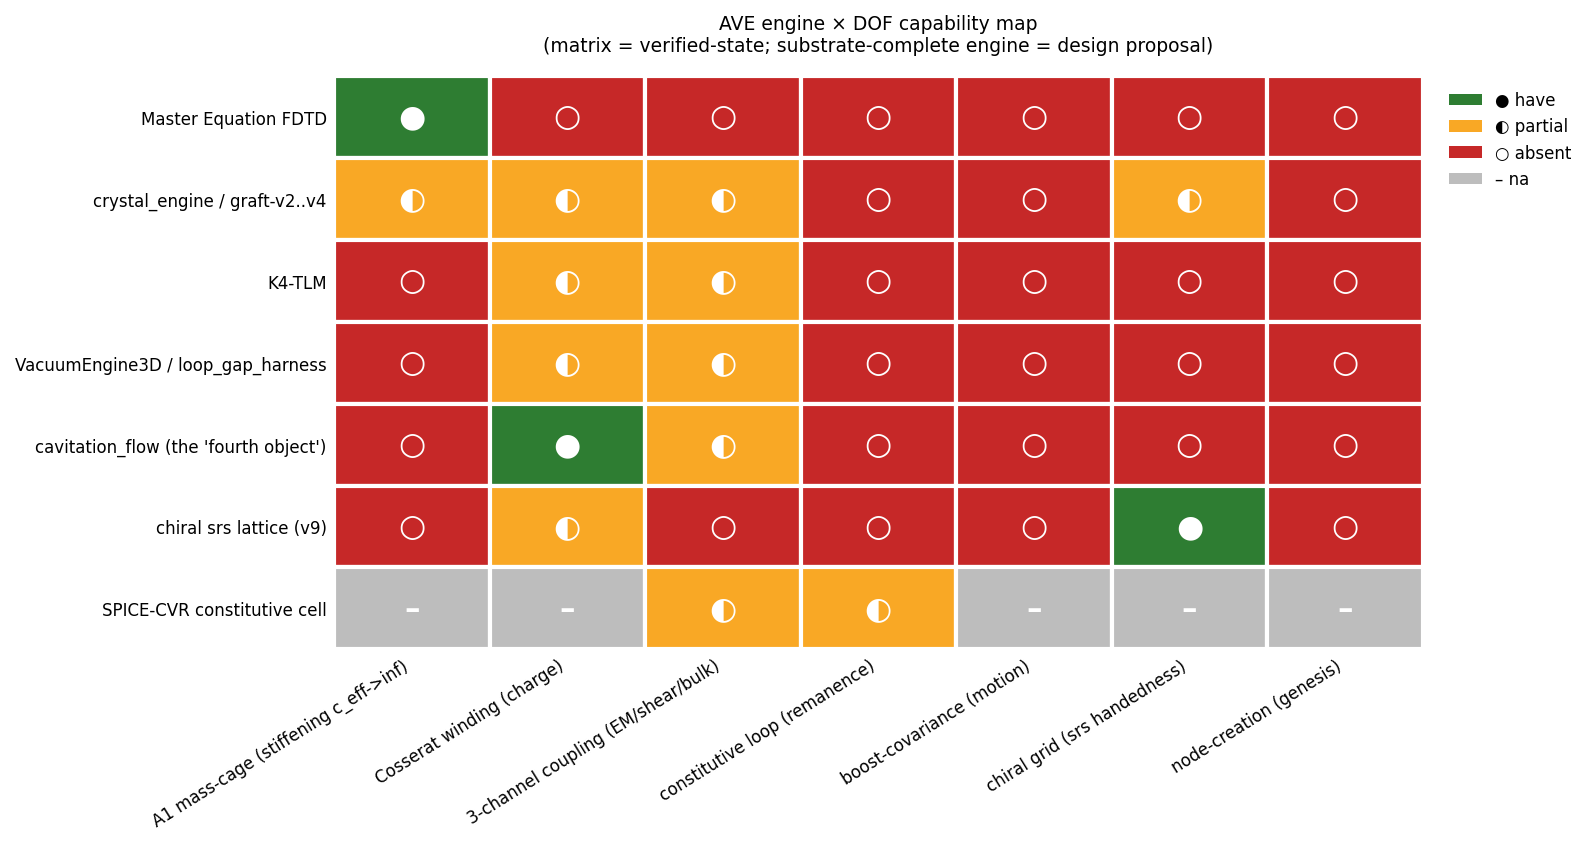
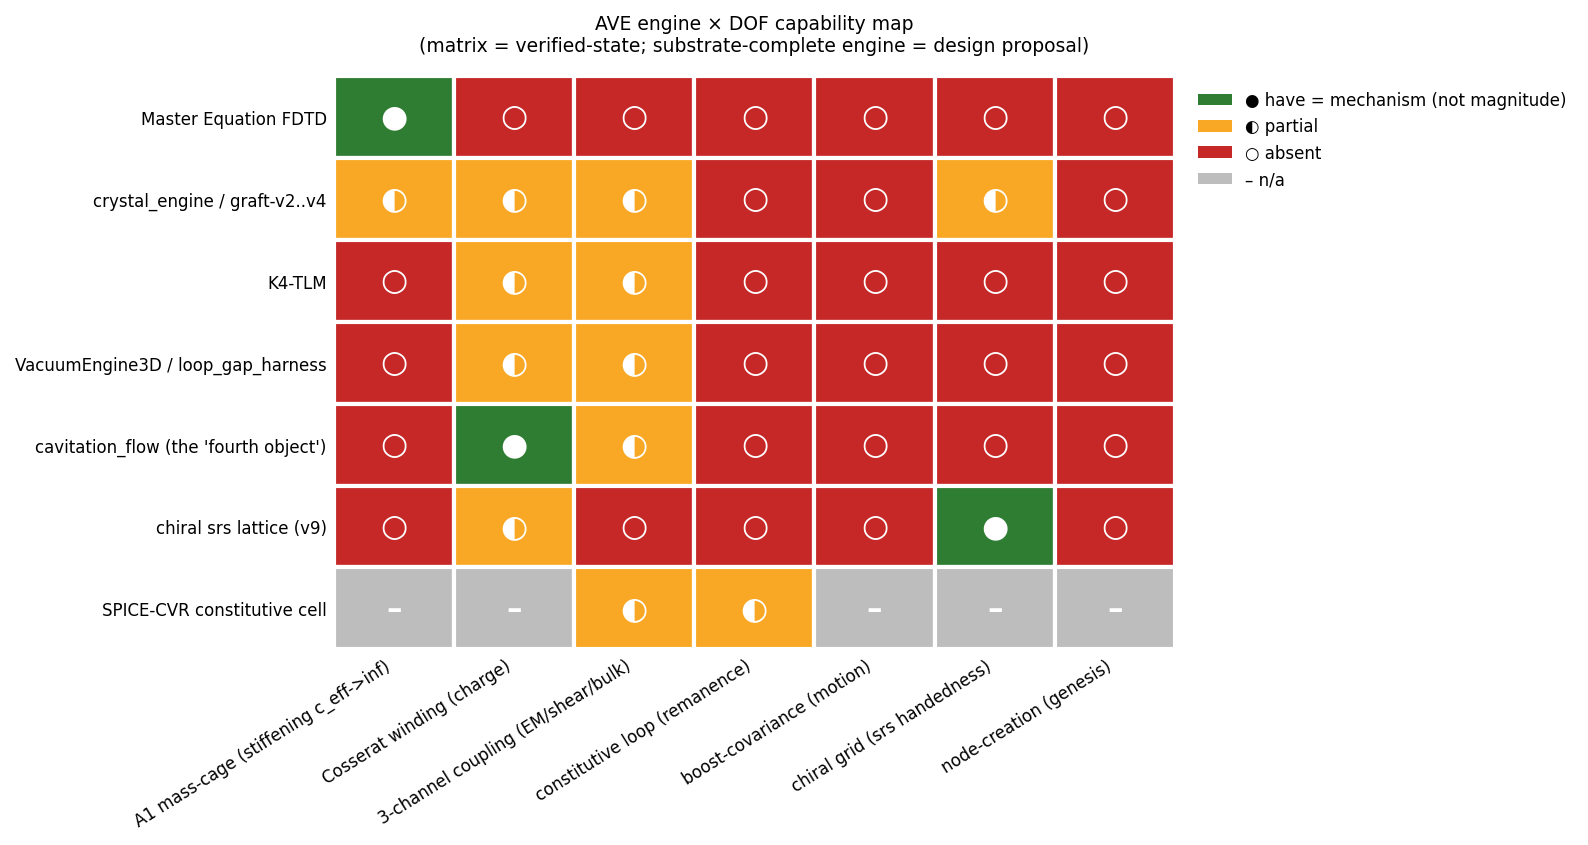
Fix harness no-A1-field anchor (mis-lined :503→:499, ×5) + auditor polish
Cell-check FIX-FIRST (auditor #216): the harness "no independent A1 field" anchor
was mis-lined — :503/:527 are scalar-grade-branch line numbers; on main the
v_scalar_from_v_inc call sites are :499/:523 (def cross_sector_coupling.py:226).
Re-cite the DEF (stable against the scalar-grade merge) across all 5 sites: leaf
§2, YAML harness.a1_cage + harness.winding, and the index.md + loop-gap-epic
addenda. The claim is UNCHANGED and TRUE (harness scalar is a projection); only
the cited line was wrong (a verify-before-cite slip — grepped the wrong worktree).

Polish (auditor, non-blocking): full path on the graft-v2 cite; 4 chiral_grid:absent
cells re-anchored to honest structural-inference (the harness one no longer points
at a different engine's text); §6 exponent-defect line corrected (:165-169). Legend
note added (have = DOF-mechanism validated, NOT magnitude — closes the green-cage
misread). Figure re-rendered. make verify clean (0 gating errors).

diff --git a/manuscript/ave-kb/common/figures/engine_capability_map.py b/manuscript/ave-kb/common/figures/engine_capability_map.py
@@ -76,7 +76,13 @@ def render(data: dict, out: str) -> None:
         "(matrix = verified-state; substrate-complete engine = design proposal)",
         fontsize=9, pad=12,
     )
-    legend = [Patch(facecolor=STATUS_COLOR[k], label=f"{STATUS_GLYPH[k]} {k}")
+    _label = {
+        "have": "have = mechanism (not magnitude)",
+        "partial": "partial",
+        "absent": "absent",
+        "na": "n/a",
+    }
+    legend = [Patch(facecolor=STATUS_COLOR[k], label=f"{STATUS_GLYPH[k]} {_label[k]}")
               for k in ("have", "partial", "absent", "na")]
     ax.legend(handles=legend, loc="upper left", bbox_to_anchor=(1.01, 1.0), fontsize=8, frameon=False)
 

diff --git a/manuscript/ave-kb/common/engine-capability-map.md b/manuscript/ave-kb/common/engine-capability-map.md
@@ -42,7 +42,7 @@ A complete, stable, moving, charged electron requires all seven at once. No sing
 - **crystal_engine / graft-v2..v4** (`src/ave/core/crystal_engine.py`) — the cage **with the transverse-shear→longitudinal-bulk conversion** + gyrotropic coupling (`:9,224`). Cage **sign** confirmed; **magnitude is apparatus/exponent-bound** — see §6.
 - **cavitation_flow** (`src/ave/core/cavitation_flow.py`) — the **only** engine that hosts **circulation** (vector velocity + Kelvin-conserved circulation, `:16-17,33`). It is explicitly *a fourth object — NOT the $\Gamma=-1$ cage* (`:28`).
 - **chiral srs lattice / v9** — the **only** engine with the validated **chiral grid** (srs $I4_1 32$, optical-activity $\pm75.46°$/unit, [#195]). Frozen; transverse-only.
-- **VacuumEngine3D / loop_gap_harness** (`src/ave/topological/vacuum_engine.py`) — Cosserat ω carrier + 3-channel (incl. *softening* bulk ρ̄). Its scalar is a **projection** `v_scalar_from_v_inc(V_inc)` (`k4_cosserat_coupling.py:503`) — **no independent A1 field**, so it cannot host the stiffening cage.
+- **VacuumEngine3D / loop_gap_harness** (`src/ave/topological/vacuum_engine.py`) — Cosserat ω carrier + 3-channel (incl. *softening* bulk ρ̄). Its scalar is a **projection** `v_scalar_from_v_inc(V_inc)` (def `cross_sector_coupling.py:226`, used at `k4_cosserat_coupling.py:499`) — **no independent A1 field**, so it cannot host the stiffening cage.
 - **SPICE-CVR cell** — circuit-domain constitutive law; ε-varactor present, μ-inductor + bulk absent from the `.lib`; its loop is **imposed (IMPOSED-LATCH)**, not emergent (`spice_cvr_loop.py:224`; [#215] retraction `575ed12d`).
 - **Empty columns (no engine):** **constitutive loop**, **boost-covariance**, **node-creation** — these are the genuine missing physics (§6).
 
@@ -110,8 +110,8 @@ Big-bang assembly is rejected: a single all-DOF engine that fails gives an ambig
 ## §6 — Open frontier (the genuine missing physics)
 
 - **Loop, boost, node-creation are absent from *every* engine.** These are not engine-choice gaps; they are unbuilt physics. The loop (R10 remanence) is the deepest: the kernel is anhysteretic, and every "retention" so far is imposed (§3.3).
-- **The cage magnitude is not yet demonstrated to reach $\Gamma=-1$.** graft-v2's `Γ_min=−0.849` is the deepest **static-seed** read on **non-binding clips** — it sits *exactly on the clip floor* in all 10 sweep cells (corr 1.0000, residual 0.0000); the deepest *dynamical* wall at the standard `A_cap=0.999` is **−0.37** (also clip-bound), exponent-corrected to ~**−0.65** (`crystal-graft-v2_result.md:32`). **What survives: the wall SIGN (short, Γ<0) + the monotone-with-depth trend. The magnitude is apparatus/exponent-dependent, and −1 is NOT demonstrated.**
-- **Exponent defect (flagged, physics-review item).** `master_equation_fdtd.py:148-151` sets `c_eff²=c0²/S`, so the physical refractive index is `n=c0/c_eff=S^0.5`, but `refractive_index()` (`:165-168`) returns `S^0.25`. Downstream `Γ=(n−1)/(n+1)` magnitudes *understate* the wall depth (they do not flip its sign). Comment-only flag in the engine per flag-don't-fix; the fix is a Grant/auditor physics-review item.
+- **The cage magnitude is not yet demonstrated to reach $\Gamma=-1$.** graft-v2's `Γ_min=−0.849` is the deepest **static-seed** read on **non-binding clips** — it sits *exactly on the clip floor* in all 10 sweep cells (corr 1.0000, residual 0.0000); the deepest *dynamical* wall at the standard `A_cap=0.999` is **−0.37** (also clip-bound), exponent-corrected to ~**−0.65** (`research/2026-06-09_crystal-graft-v2_result.md:32`). **What survives: the wall SIGN (short, Γ<0) + the monotone-with-depth trend. The magnitude is apparatus/exponent-dependent, and −1 is NOT demonstrated.**
+- **Exponent defect (flagged, physics-review item).** `master_equation_fdtd.py:148-151` sets `c_eff²=c0²/S`, so the physical refractive index is `n=c0/c_eff=S^0.5`, but `refractive_index()` returns `S^0.25` (`:169`; in-code defect flag at `:165-168`). Downstream `Γ=(n−1)/(n+1)` magnitudes *understate* the wall depth (they do not flip its sign). Comment-only flag in the engine per flag-don't-fix; the fix is a Grant/auditor physics-review item.
 
 ---
 

diff --git a/_orchestration/index.md b/_orchestration/index.md
@@ -73,7 +73,7 @@ Electron = **Class A/B consistency structure** on **z=4 diamond K4** (`research/
 
 ### 2026-06-13 addendum — engine capability map + platform decision
 
-**Finding (DOF-discovery → substrate-complete engine).** The C′ scalar-grade diagnosis surfaced that the electron's seven required DOF are split across engines by **canon-derived firewalls** (irrotational↮winding, cubic↮self-trap/chirality, anhysteretic↮loop), and that the harness (`VacuumEngine3D`) **structurally lacks the A1 stiffening cage** — its scalar is a `v_scalar_from_v_inc(V_inc)` projection (`k4_cosserat_coupling.py:503`), softening-bulk only. Captured as a tracked KB artifact: [`engine-capability-map.md`](../manuscript/ave-kb/common/engine-capability-map.md) (the N-engine generalization of A-027) + a living-tracker figure (`common/figures/engine_capability_matrix.yaml` → PNG; one-line cell edit + re-render). **Class-tag:** matrix = verified-state; substrate-complete engine = **DESIGN PROPOSAL (not built)**.
+**Finding (DOF-discovery → substrate-complete engine).** The C′ scalar-grade diagnosis surfaced that the electron's seven required DOF are split across engines by **canon-derived firewalls** (irrotational↮winding, cubic↮self-trap/chirality, anhysteretic↮loop), and that the harness (`VacuumEngine3D`) **structurally lacks the A1 stiffening cage** — its scalar is a `v_scalar_from_v_inc(V_inc)` projection (def `cross_sector_coupling.py:226`, used at `k4_cosserat_coupling.py:499`), softening-bulk only. Captured as a tracked KB artifact: [`engine-capability-map.md`](../manuscript/ave-kb/common/engine-capability-map.md) (the N-engine generalization of A-027) + a living-tracker figure (`common/figures/engine_capability_matrix.yaml` → PNG; one-line cell edit + re-render). **Class-tag:** matrix = verified-state; substrate-complete engine = **DESIGN PROPOSAL (not built)**.
 
 **Platform decision (Option A — PENDING Grant ratification).** Run the C′ cage test on the longitudinal-bulk engine (`crystal_engine.py` / `master_equation_fdtd.py`) — the A1 stiffening cage's engine-confirmed home (`crystal_engine.py:18-20`, NO-QED directive) — **not** the `loop_gap_harness`, which cannot host it. This is the harness-discipline skill meeting a case it didn't anticipate (electron = longitudinal-bulk object), **not** a version-treadmill breach. The `ave-loop-gap-harness-discipline` amendment ("one platform per firewalled branch") is queued **OUT-OF-BAND** (user-level skill, not corpus) for separate Grant sign-off.
 

diff --git a/_orchestration/2026-06-12_loop-gap-unified-harness.md b/_orchestration/2026-06-12_loop-gap-unified-harness.md
@@ -144,6 +144,6 @@
 
 ## 2026-06-13 addendum — engine capability map + the C′ platform decision
 
-**The C′ scalar-grade diagnosis closed a deeper question than the seed bug.** This harness (`VacuumEngine3D`) **cannot host the A1 stiffening cage** — its scalar is a `v_scalar_from_v_inc(V_inc)` projection (softening-bulk only; `k4_cosserat_coupling.py:503`), so the cage's engine-confirmed home is the longitudinal-bulk engine (`crystal_engine.py` / `master_equation_fdtd.py`). The full engine×DOF picture — the 7 DOF, the three canon-derived firewalls, and the substrate-complete-engine **design proposal** — is now a tracked KB artifact: [`engine-capability-map.md`](../manuscript/ave-kb/common/engine-capability-map.md) + a living-tracker figure.
+**The C′ scalar-grade diagnosis closed a deeper question than the seed bug.** This harness (`VacuumEngine3D`) **cannot host the A1 stiffening cage** — its scalar is a `v_scalar_from_v_inc(V_inc)` projection (softening-bulk only; def `cross_sector_coupling.py:226`, used at `k4_cosserat_coupling.py:499`), so the cage's engine-confirmed home is the longitudinal-bulk engine (`crystal_engine.py` / `master_equation_fdtd.py`). The full engine×DOF picture — the 7 DOF, the three canon-derived firewalls, and the substrate-complete-engine **design proposal** — is now a tracked KB artifact: [`engine-capability-map.md`](../manuscript/ave-kb/common/engine-capability-map.md) + a living-tracker figure.
 
 **Platform decision (Option A — PENDING Grant ratification; block in [`index.md`](index.md) §2026-06-13 addendum).** The C′ cage test runs on `crystal_engine` / `master_equation_fdtd`, **not** this harness; `ave-loop-gap-harness-discipline` needs amending to *"one platform per firewalled branch"* (out-of-band, user-level skill). Until ratified, Phase C′-on-the-harness is **HELD**. The harness continues to own the doctrine §2 ranks (softening-bulk + Cosserat + transport); the stiffening cage is a separate firewalled branch.
